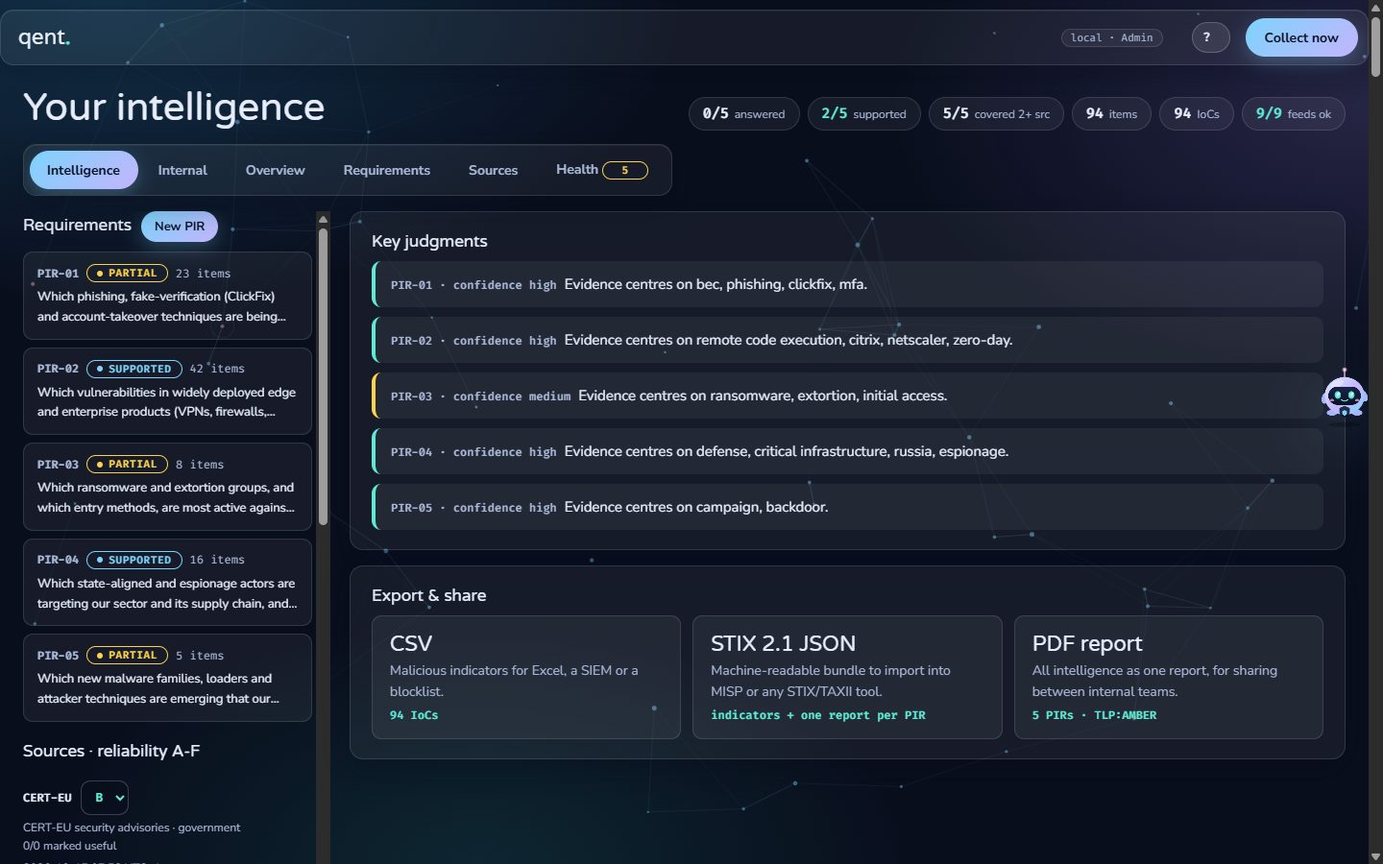
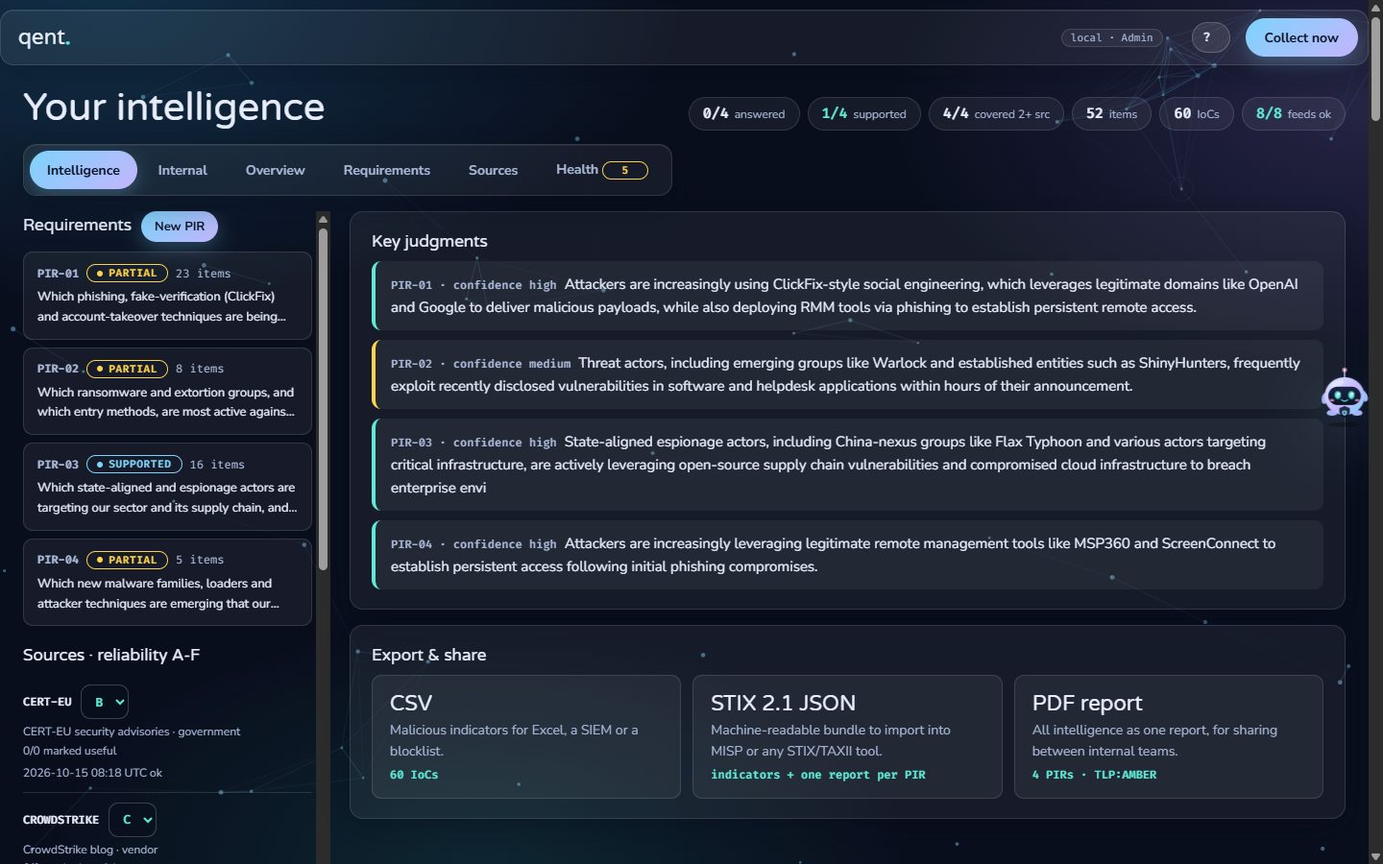
Drop vulnerability PIR and KEV feed (Stenwatch covers it); four general PIRs; AI summary screenshot

diff --git a/docs/diagrams.html b/docs/diagrams.html
@@ -41,7 +41,7 @@ html.fx{scroll-behavior:auto}
 .lb{font:600 10px ui-monospace,Consolas,monospace;letter-spacing:.06em;fill:#eaf0f8}
 .ar{fill:none;stroke:#8b9ab0;stroke-width:1.5}.ar.acc{stroke:#3ee6a8;stroke-width:1.8}.ar.opt{stroke-dasharray:5 4}
 .nt{font:italic 13px Georgia,serif;fill:#8b9ab0}
-</style><rect class="bg" width="1240" height="640"/><path class="ar " d="M180 188 L287 188" marker-end="url(#arch-a)"/><path class="ar " d="M437 188 L544 188" marker-end="url(#arch-a)"/><path class="ar acc" d="M694 188 L801 188" marker-end="url(#arch-a)"/><path class="ar acc" d="M951 188 L1058 188" marker-end="url(#arch-a)"/><path class="ar " d="M619 94 L619 150" marker-end="url(#arch-a)"/><path class="ar opt" d="M1133 150 L1133 94" marker-end="url(#arch-a)" marker-start="url(#arch-a)"/><path class="ar acc" d="M1133 226 L1133.0 312.0 Q1133 320 1125.0 320.0 L1064 320" marker-end="url(#arch-a)"/><path class="ar " d="M180 478 L287 478" marker-end="url(#arch-a)"/><path class="ar acc" d="M437 478 L544 478" marker-end="url(#arch-a)"/><path class="ar " d="M694 478 L801 478" marker-end="url(#arch-a)"/><path class="ar " d="M951 478 L1058 478" marker-end="url(#arch-a)"/><path class="ar " d="M619 440 L619 350" marker-end="url(#arch-a)"/><path class="ar opt" d="M876 516 L876 560" marker-end="url(#arch-a)" marker-start="url(#arch-a)"/><text class="tg" x="30" y="128" text-anchor="start">EXTERNAL INTELLIGENCE</text><text class="tg" x="30" y="418" text-anchor="start">YOUR OWN LOGS</text><rect class="mask" x="30" y="150" width="150" height="76" rx="6"/><rect class="box ext" x="30" y="150" width="150" height="76" rx="6"/><text class="nm" x="40" y="176">Public feeds</text><text class="sb" x="40" y="194">RSS · CISA KEV</text><text class="sb" x="40" y="208">Feodo · MISP events</text><rect class="mask" x="287" y="150" width="150" height="76" rx="6"/><rect class="box " x="287" y="150" width="150" height="76" rx="6"/><text class="nm" x="297" y="176">Collector</text><text class="sb" x="297" y="194">fetch · size caps</text><text class="sb" x="297" y="208">public hosts only</text><rect class="mask" x="544" y="150" width="150" height="76" rx="6"/><rect class="box " x="544" y="150" width="150" height="76" rx="6"/><text class="nm" x="554" y="176">Matcher</text><text class="sb" x="554" y="194">PIR keywords</text><text class="sb" x="554" y="208">newer than 30 days</text><rect class="mask" x="801" y="150" width="150" height="76" rx="6"/><rect class="box " x="801" y="150" width="150" height="76" rx="6"/><text class="nm" x="811" y="176">Extractor</text><text class="sb" x="811" y="194">malicious IoCs only</text><text class="sb" x="811" y="208">CVE · ATT&amp;CK · actors</text><rect class="mask" x="1058" y="150" width="150" height="76" rx="6"/><rect class="box focal" x="1058" y="150" width="150" height="76" rx="6"/><text class="nm" x="1068" y="176">Assessor</text><text class="sb" x="1068" y="194">score · confidence</text><text class="sb" x="1068" y="208">OPEN → ANSWERED</text><rect class="mask" x="544" y="30" width="150" height="64" rx="6"/><rect class="box " x="544" y="30" width="150" height="64" rx="6"/><text class="nm" x="554" y="56">PIRs</text><text class="sb" x="554" y="74">questions + keywords</text><rect class="mask" x="1058" y="30" width="150" height="64" rx="6"/><rect class="box fut" x="1058" y="30" width="150" height="64" rx="6"/><text class="nm" x="1068" y="56">AI summary</text><text class="sb" x="1068" y="74">public items only</text><rect class="mask" x="544" y="290" width="520" height="60" rx="6"/><rect class="box " x="544" y="290" width="520" height="60" rx="6"/><text class="nm" x="554" y="316">Dashboard</text><text class="sb" x="554" y="334">Intelligence · Internal · Overview · Requirements · Sources · Health</text><rect class="mask" x="30" y="440" width="150" height="76" rx="6"/><rect class="box ext" x="30" y="440" width="150" height="76" rx="6"/><text class="nm" x="40" y="466">Your logs</text><text class="sb" x="40" y="484">firewall · VPN · EDR</text><text class="sb" x="40" y="498">CSV upload</text><rect class="mask" x="287" y="440" width="150" height="76" rx="6"/><rect class="box focal" x="287" y="440" width="150" height="76" rx="6"/><text class="nm" x="297" y="466">Privacy filter</text><text class="sb" x="297" y="484">drop usernames</text><text class="sb" x="297" y="498">pseudonymise assets</text><rect class="mask" x="544" y="440" width="150" height="76" rx="6"/><rect class="box " x="544" y="440" width="150" height="76" rx="6"/><text class="nm" x="554" y="466">Detectors</text><text class="sb" x="554" y="484">scans · brute force</text><text class="sb" x="554" y="498">beaconing · exploits</text><rect class="mask" x="801" y="440" width="150" height="76" rx="6"/><rect class="box " x="801" y="440" width="150" height="76" rx="6"/><text class="nm" x="811" y="466">Sightings</text><text class="sb" x="811" y="484">vs feeds + MISP</text><text class="sb" x="811" y="498">(read only)</text><rect class="mask" x="1058" y="440" width="150" height="76" rx="6"/><rect class="box " x="1058" y="440" width="150" height="76" rx="6"/><text class="nm" x="1068" y="466">Share gate</text><text class="sb" x="1068" y="484">share_safe()</text><text class="sb" x="1068" y="498">STIX · CSV · TAXII</text><rect class="mask" x="801" y="560" width="150" height="64" rx="6"/><rect class="box ext" x="801" y="560" width="150" height="64" rx="6"/><text class="nm" x="811" y="586">Your MISP</text><text class="sb" x="811" y="604">lookup · push (opt.)</text><text class="nt" x="30" y="604" text-anchor="start">State: SQLite qent.db (PostgreSQL in cloud mode). Log rows are deleted after 30 days.</text><text class="nt" x="30" y="626" text-anchor="start">No AI model ever sees log data.</text><rect class="mask" x="193.5" y="160" width="80.0" height="16" rx="2"/><text class="lb" x="233.5" y="172" text-anchor="middle">RSS / JSON</text><rect class="mask" x="467.5" y="160" width="46.0" height="16" rx="2"/><text class="lb" x="490.5" y="172" text-anchor="middle">ITEMS</text><rect class="mask" x="707.5" y="160" width="80.0" height="16" rx="2"/><text class="lb" x="747.5" y="172" text-anchor="middle">KEPT ITEMS</text><rect class="mask" x="964.5" y="160" width="80.0" height="16" rx="2"/><text class="lb" x="1004.5" y="172" text-anchor="middle">INDICATORS</text><rect class="mask" x="629" y="114" width="66.4" height="16" rx="2"/><text class="lb" x="635" y="126">KEYWORDS</text><rect class="mask" x="1143" y="114" width="86.8" height="16" rx="2"/><text class="lb" x="1149" y="126">PUBLIC ONLY</text><rect class="mask" x="1143" y="254" width="52.8" height="16" rx="2"/><text class="lb" x="1149" y="266">STATUS</text><rect class="mask" x="213.9" y="450" width="39.2" height="16" rx="2"/><text class="lb" x="233.5" y="462" text-anchor="middle">ROWS</text><rect class="mask" x="453.9" y="450" width="73.2" height="16" rx="2"/><text class="lb" x="490.5" y="462" text-anchor="middle">ASSET IDs</text><rect class="mask" x="714.3" y="450" width="66.4" height="16" rx="2"/><text class="lb" x="747.5" y="462" text-anchor="middle">FINDINGS</text><rect class="mask" x="967.9" y="450" width="73.2" height="16" rx="2"/><text class="lb" x="1004.5" y="462" text-anchor="middle">SIGHTINGS</text><rect class="mask" x="629" y="387" width="66.4" height="16" rx="2"/><text class="lb" x="635" y="399">FINDINGS</text><rect class="mask" x="886" y="528" width="100.4" height="16" rx="2"/><text class="lb" x="892" y="540">LOOKUP / PUSH</text></svg></div><div class="leg"><span><i class="s"></i>component</span><span><i class="f"></i>focal step</span><span><i class="e"></i>external / optional</span><span><i class="u"></i>future</span><span><b class="a"></b>main data flow</span><span><b class="d"></b>optional / off by default</span></div></section><section id="pir-status"><h2>2. From feed item to PIR status</h2><p class="cap">Three gates decide whether an item is kept; two source and verdict rules decide how sure we are.</p><div class="scroll"><svg xmlns="http://www.w3.org/2000/svg" viewBox="0 0 1240 650" width="1240" height="650" role="img" aria-labelledby="flow-title flow-desc"><title id="flow-title">From feed item to PIR status</title><desc id="flow-desc">A feed item is kept only if its source is tasked to the PIR, it is newer than 30 days and a keyword hits; the PIR status then follows from analyst verdicts and independent source count.</desc><defs><marker id="flow-a" viewBox="0 0 10 10" refX="9" refY="5" markerWidth="7" markerHeight="7" orient="auto-start-reverse"><path d="M1 1L9 5L1 9" fill="none" stroke="#8b9ab0" stroke-width="1.6"/></marker></defs><style>
+</style><rect class="bg" width="1240" height="640"/><path class="ar " d="M180 188 L287 188" marker-end="url(#arch-a)"/><path class="ar " d="M437 188 L544 188" marker-end="url(#arch-a)"/><path class="ar acc" d="M694 188 L801 188" marker-end="url(#arch-a)"/><path class="ar acc" d="M951 188 L1058 188" marker-end="url(#arch-a)"/><path class="ar " d="M619 94 L619 150" marker-end="url(#arch-a)"/><path class="ar opt" d="M1133 150 L1133 94" marker-end="url(#arch-a)" marker-start="url(#arch-a)"/><path class="ar acc" d="M1133 226 L1133.0 312.0 Q1133 320 1125.0 320.0 L1064 320" marker-end="url(#arch-a)"/><path class="ar " d="M180 478 L287 478" marker-end="url(#arch-a)"/><path class="ar acc" d="M437 478 L544 478" marker-end="url(#arch-a)"/><path class="ar " d="M694 478 L801 478" marker-end="url(#arch-a)"/><path class="ar " d="M951 478 L1058 478" marker-end="url(#arch-a)"/><path class="ar " d="M619 440 L619 350" marker-end="url(#arch-a)"/><path class="ar opt" d="M876 516 L876 560" marker-end="url(#arch-a)" marker-start="url(#arch-a)"/><text class="tg" x="30" y="128" text-anchor="start">EXTERNAL INTELLIGENCE</text><text class="tg" x="30" y="418" text-anchor="start">YOUR OWN LOGS</text><rect class="mask" x="30" y="150" width="150" height="76" rx="6"/><rect class="box ext" x="30" y="150" width="150" height="76" rx="6"/><text class="nm" x="40" y="176">Public feeds</text><text class="sb" x="40" y="194">RSS feeds · Feodo</text><text class="sb" x="40" y="208">MISP events</text><rect class="mask" x="287" y="150" width="150" height="76" rx="6"/><rect class="box " x="287" y="150" width="150" height="76" rx="6"/><text class="nm" x="297" y="176">Collector</text><text class="sb" x="297" y="194">fetch · size caps</text><text class="sb" x="297" y="208">public hosts only</text><rect class="mask" x="544" y="150" width="150" height="76" rx="6"/><rect class="box " x="544" y="150" width="150" height="76" rx="6"/><text class="nm" x="554" y="176">Matcher</text><text class="sb" x="554" y="194">PIR keywords</text><text class="sb" x="554" y="208">newer than 30 days</text><rect class="mask" x="801" y="150" width="150" height="76" rx="6"/><rect class="box " x="801" y="150" width="150" height="76" rx="6"/><text class="nm" x="811" y="176">Extractor</text><text class="sb" x="811" y="194">malicious IoCs only</text><text class="sb" x="811" y="208">CVE · ATT&amp;CK · actors</text><rect class="mask" x="1058" y="150" width="150" height="76" rx="6"/><rect class="box focal" x="1058" y="150" width="150" height="76" rx="6"/><text class="nm" x="1068" y="176">Assessor</text><text class="sb" x="1068" y="194">score · confidence</text><text class="sb" x="1068" y="208">OPEN → ANSWERED</text><rect class="mask" x="544" y="30" width="150" height="64" rx="6"/><rect class="box " x="544" y="30" width="150" height="64" rx="6"/><text class="nm" x="554" y="56">PIRs</text><text class="sb" x="554" y="74">questions + keywords</text><rect class="mask" x="1058" y="30" width="150" height="64" rx="6"/><rect class="box fut" x="1058" y="30" width="150" height="64" rx="6"/><text class="nm" x="1068" y="56">AI summary</text><text class="sb" x="1068" y="74">public items only</text><rect class="mask" x="544" y="290" width="520" height="60" rx="6"/><rect class="box " x="544" y="290" width="520" height="60" rx="6"/><text class="nm" x="554" y="316">Dashboard</text><text class="sb" x="554" y="334">Intelligence · Internal · Overview · Requirements · Sources · Health</text><rect class="mask" x="30" y="440" width="150" height="76" rx="6"/><rect class="box ext" x="30" y="440" width="150" height="76" rx="6"/><text class="nm" x="40" y="466">Your logs</text><text class="sb" x="40" y="484">firewall · VPN · EDR</text><text class="sb" x="40" y="498">CSV upload</text><rect class="mask" x="287" y="440" width="150" height="76" rx="6"/><rect class="box focal" x="287" y="440" width="150" height="76" rx="6"/><text class="nm" x="297" y="466">Privacy filter</text><text class="sb" x="297" y="484">drop usernames</text><text class="sb" x="297" y="498">pseudonymise assets</text><rect class="mask" x="544" y="440" width="150" height="76" rx="6"/><rect class="box " x="544" y="440" width="150" height="76" rx="6"/><text class="nm" x="554" y="466">Detectors</text><text class="sb" x="554" y="484">scans · brute force</text><text class="sb" x="554" y="498">beaconing · exploits</text><rect class="mask" x="801" y="440" width="150" height="76" rx="6"/><rect class="box " x="801" y="440" width="150" height="76" rx="6"/><text class="nm" x="811" y="466">Sightings</text><text class="sb" x="811" y="484">vs feeds + MISP</text><text class="sb" x="811" y="498">(read only)</text><rect class="mask" x="1058" y="440" width="150" height="76" rx="6"/><rect class="box " x="1058" y="440" width="150" height="76" rx="6"/><text class="nm" x="1068" y="466">Share gate</text><text class="sb" x="1068" y="484">share_safe()</text><text class="sb" x="1068" y="498">STIX · CSV · TAXII</text><rect class="mask" x="801" y="560" width="150" height="64" rx="6"/><rect class="box ext" x="801" y="560" width="150" height="64" rx="6"/><text class="nm" x="811" y="586">Your MISP</text><text class="sb" x="811" y="604">lookup · push (opt.)</text><text class="nt" x="30" y="604" text-anchor="start">State: SQLite qent.db (PostgreSQL in cloud mode). Log rows are deleted after 30 days.</text><text class="nt" x="30" y="626" text-anchor="start">No AI model ever sees log data.</text><rect class="mask" x="193.5" y="160" width="80.0" height="16" rx="2"/><text class="lb" x="233.5" y="172" text-anchor="middle">RSS / JSON</text><rect class="mask" x="467.5" y="160" width="46.0" height="16" rx="2"/><text class="lb" x="490.5" y="172" text-anchor="middle">ITEMS</text><rect class="mask" x="707.5" y="160" width="80.0" height="16" rx="2"/><text class="lb" x="747.5" y="172" text-anchor="middle">KEPT ITEMS</text><rect class="mask" x="964.5" y="160" width="80.0" height="16" rx="2"/><text class="lb" x="1004.5" y="172" text-anchor="middle">INDICATORS</text><rect class="mask" x="629" y="114" width="66.4" height="16" rx="2"/><text class="lb" x="635" y="126">KEYWORDS</text><rect class="mask" x="1143" y="114" width="86.8" height="16" rx="2"/><text class="lb" x="1149" y="126">PUBLIC ONLY</text><rect class="mask" x="1143" y="254" width="52.8" height="16" rx="2"/><text class="lb" x="1149" y="266">STATUS</text><rect class="mask" x="213.9" y="450" width="39.2" height="16" rx="2"/><text class="lb" x="233.5" y="462" text-anchor="middle">ROWS</text><rect class="mask" x="453.9" y="450" width="73.2" height="16" rx="2"/><text class="lb" x="490.5" y="462" text-anchor="middle">ASSET IDs</text><rect class="mask" x="714.3" y="450" width="66.4" height="16" rx="2"/><text class="lb" x="747.5" y="462" text-anchor="middle">FINDINGS</text><rect class="mask" x="967.9" y="450" width="73.2" height="16" rx="2"/><text class="lb" x="1004.5" y="462" text-anchor="middle">SIGHTINGS</text><rect class="mask" x="629" y="387" width="66.4" height="16" rx="2"/><text class="lb" x="635" y="399">FINDINGS</text><rect class="mask" x="886" y="528" width="100.4" height="16" rx="2"/><text class="lb" x="892" y="540">LOOKUP / PUSH</text></svg></div><div class="leg"><span><i class="s"></i>component</span><span><i class="f"></i>focal step</span><span><i class="e"></i>external / optional</span><span><i class="u"></i>future</span><span><b class="a"></b>main data flow</span><span><b class="d"></b>optional / off by default</span></div></section><section id="pir-status"><h2>2. From feed item to PIR status</h2><p class="cap">Three gates decide whether an item is kept; two source and verdict rules decide how sure we are.</p><div class="scroll"><svg xmlns="http://www.w3.org/2000/svg" viewBox="0 0 1240 650" width="1240" height="650" role="img" aria-labelledby="flow-title flow-desc"><title id="flow-title">From feed item to PIR status</title><desc id="flow-desc">A feed item is kept only if its source is tasked to the PIR, it is newer than 30 days and a keyword hits; the PIR status then follows from analyst verdicts and independent source count.</desc><defs><marker id="flow-a" viewBox="0 0 10 10" refX="9" refY="5" markerWidth="7" markerHeight="7" orient="auto-start-reverse"><path d="M1 1L9 5L1 9" fill="none" stroke="#8b9ab0" stroke-width="1.6"/></marker></defs><style>
 .bg{fill:#0a101b}.mask{fill:#0a101b}
 .box{fill:#101826;stroke:#2a3a52;stroke-width:1.2}
 .box.focal{fill:#0f2a26;stroke:#3ee6a8;stroke-width:1.6}

diff --git a/docs/index.html b/docs/index.html
@@ -71,7 +71,7 @@ html.fx{scroll-behavior:auto}
 <section id="why"><div class="wrap">
 <div class="tag">The problem</div><h2>Noise, few proven answers, blind spots</h2>
 <div class="grid">
-<div class="card"><div class="num">1,800+</div><h3>Too much noise</h3><p>Items from the feeds in one run. Only about 90 touch one of five PIRs.</p></div>
+<div class="card"><div class="num">160</div><h3>Too much noise</h3><p>Items from 8 feeds in one run. Only 52 touch one of four PIRs.</p></div>
 <div class="card"><div class="num">0/5</div><h3>Few proven answers</h3><p>Nobody can say a question is answered until an analyst confirms it.</p></div>
 <div class="card"><div class="num">?</div><h3>Blind spots</h3><p>A feed fails or goes quiet and nobody notices. Qent's Health tab does.</p></div>
 </div>
@@ -91,6 +91,8 @@ html.fx{scroll-behavior:auto}
 <img src="img/intelligence.jpg" alt="Intelligence tab: PIR status, sources and indicators">
 <img src="img/landing.jpg" alt="Landing page with the Qi mascot">
 </div>
+<p style="color:var(--mute);margin-top:22px;max-width:720px">With a Gemini or Azure OpenAI key, each PIR also gets a short written assessment from public feed items only, marked AI-generated and unverified, with confidence, gaps and a next action.</p>
+<img src="img/ai-summary.jpg" alt="A PIR with its AI-generated assessment, confidence, gaps and action" style="margin-top:14px">
 </div></section>
 
 <section id="diagrams"><div class="wrap"><div class="tag">Diagrams</div><h2>How it works, end to end</h2><h3 style="margin:26px 0 8px;font-size:18px">How Qent works</h3><div style="overflow-x:auto"><img src="diagrams/architecture.svg" alt="How Qent works" style="min-width:900px"></div><h3 style="margin:26px 0 8px;font-size:18px">From feed item to PIR status</h3><div style="overflow-x:auto"><img src="diagrams/pir-status.svg" alt="From feed item to PIR status" style="min-width:900px"></div><h3 style="margin:26px 0 8px;font-size:18px">Internal log privacy and sharing</h3><div style="overflow-x:auto"><img src="diagrams/log-privacy.svg" alt="Internal log privacy and sharing" style="min-width:900px"></div><h3 style="margin:26px 0 8px;font-size:18px">Future cloud production (Azure, EU)</h3><div style="overflow-x:auto"><img src="diagrams/cloud-production.svg" alt="Future cloud production (Azure, EU)" style="min-width:900px"></div><p style="margin-top:18px"><a class="btn s" href="diagrams.html">Open all diagrams</a></p></div></section>
@@ -100,10 +102,9 @@ html.fx{scroll-behavior:auto}
 <div class="scroll"><table>
 <tr><th>ID</th><th>Question</th><th>Level</th></tr>
 <tr><td>PIR-01</td><td>Which phishing, ClickFix and account-takeover techniques are being used against cloud and email accounts right now, and which controls stop them?</td><td>tactical</td></tr>
-<tr><td>PIR-02</td><td>Which vulnerabilities in widely deployed edge and enterprise products (VPNs, firewalls, gateways, load balancers, mail servers, operating systems) are exploited now, and which need patching within a day?</td><td>tactical</td></tr>
-<tr><td>PIR-03</td><td>Which ransomware and extortion groups, and which entry methods, are most active against organisations like ours, and what do they reach first?</td><td>strategic</td></tr>
-<tr><td>PIR-04</td><td>Which state-aligned and espionage actors target our sector and its supply chain, and through which suppliers or partners?</td><td>strategic</td></tr>
-<tr><td>PIR-05</td><td>Which new malware families, loaders and attacker techniques are emerging that our detections and hardening should cover?</td><td>tactical</td></tr>
+<tr><td>PIR-02</td><td>Which ransomware and extortion groups, and which entry methods, are most active against organisations like ours, and what do they reach first?</td><td>strategic</td></tr>
+<tr><td>PIR-03</td><td>Which state-aligned and espionage actors target our sector and its supply chain, and through which suppliers or partners?</td><td>strategic</td></tr>
+<tr><td>PIR-04</td><td>Which new malware families, loaders and attacker techniques are emerging that our detections and hardening should cover?</td><td>tactical</td></tr>
 </table></div>
 </div></section>
 

diff --git a/qent.py b/qent.py
@@ -2773,7 +2773,6 @@ def render(errors, res, failed, today, sources=(), runs=(), marks={}, role="Admi
 
 # source id (as in Sources sheet) -> (kind, url)
 FEEDS = {
-    "CISA-KEV": ("kev", "https://www.cisa.gov/sites/default/files/feeds/known_exploited_vulnerabilities.json"),
     "DARKREADING": ("rss", "https://www.darkreading.com/rss.xml"),
     "CERT-EU": ("rss", "https://cert.europa.eu/publications/security-advisories-rss"),
     "THN": ("rss", "https://feeds.feedburner.com/TheHackersNews"),
@@ -3265,11 +3264,11 @@ def selftest():
     SQLITE = Path(tempfile.mkdtemp()) / "old.db"  # a database from before sources had feed columns
     con0 = sqlite3.connect(SQLITE)
     con0.execute("CREATE TABLE sources(id TEXT PRIMARY KEY, name TEXT, type TEXT, reliability TEXT, pirs TEXT)")
-    con0.execute("INSERT INTO sources VALUES('CISA-KEV','CISA','government','A','PIR-02')")
+    con0.execute("INSERT INTO sources VALUES('UNIT42','Unit 42','vendor','C','PIR-02')")
     con0.commit(); con0.close()
     init_db()
-    old = [x for x in rows("sources") if x["id"] == "CISA-KEV"][0]
-    assert old["kind"] == "kev" and old["url"].startswith("https://www.cisa.gov") and old["enabled"] == 1, old
+    old = [x for x in rows("sources") if x["id"] == "UNIT42"][0]
+    assert old["kind"] == "rss" and old["url"].startswith("https://unit42.") and old["enabled"] == 1, old
     SQLITE = main_db
     good = {"id": "FINMISP", "name": "FinMISP", "type": "community", "reliability": "B", "kind": "misp", "url": "https://misp.finmisp.test/", "secret_env": "FINMISP_KEY", "days": 14, "enabled": True, "pirs": []}
     err, sid = save_source("a@x", dict(good), True)

diff --git a/README.md b/README.md
@@ -23,7 +23,13 @@ Priority intelligence requirements (PIRs) in, evidence-backed answers out: exter
 |---|---|
 | ![Intelligence tab with PIR status](docs/img/intelligence.jpg) | ![Findings from uploaded logs](docs/img/internal.jpg) |
 
+With a Gemini or Azure OpenAI key each PIR also gets a written assessment (public feed items only, marked AI-generated and unverified):
+
+![A PIR with its AI assessment](docs/img/ai-summary.jpg)
+
 <sub>Screenshots use the bundled demo PIRs and the synthetic logs in `samples/`. No real data.</sub>
+
+> Vulnerability prioritisation is out of scope here: that is what [Stenwatch](https://github.com/idiljot-singh/Stenwatch) does. Qent covers threat actors, campaigns, malware, IoCs and your own logs.
 
 ## Diagrams
 
@@ -54,7 +60,7 @@ python qent.py --test     # self-test, no network, prints "selftest ok"
 Python 3.12+, **no packages needed** (only `pip install openpyxl` for the first-start PIR import). The first start loads the **demo PIRs** from `pir_workbook.xlsx`.
 
 Demo path for a presentation:
-1. Click **Collect now**. Nine public feeds (CISA KEV, CERT-EU, Microsoft, CrowdStrike, Unit 42, The DFIR Report, The Hacker News, Dark Reading, abuse.ch) are read; only items matching a PIR are kept, with malicious IoCs (defanged, from an IoC list or a threat feed) and context (CVEs, techniques, actors) extracted.
+1. Click **Collect now**. Eight public feeds (CERT-EU, Microsoft, CrowdStrike, Unit 42, The DFIR Report, The Hacker News, Dark Reading, abuse.ch) are read; only items matching a PIR are kept, with malicious IoCs (defanged, from an IoC list or a threat feed) and context (CVEs, techniques, actors) extracted.
 2. **Requirements** tab: each PIR moves from OPEN to PARTIAL to SUPPORTED (2+ independent sources and a strong item). An analyst confirms ANSWERED.
 3. **Internal** tab: drop `samples/ssl_vpn_logs.csv`, then `firewall.csv` and `edr.csv`. About 20 findings appear with no feed and no AI: scans, brute force, success after failures, beaconing, encoded PowerShell, certutil abuse, Fortinet / Citrix / Ivanti / Cisco exploit probes, scanner clients, impossible travel.
 4. **Share**: STIX 2.1, CSV, PDF report, TAXII 2.1, MISP push, all scrubbed of internal identifiers.
@@ -64,10 +70,9 @@ Demo path for a presentation:
 | ID | Question | Level |
 |---|---|---|
 | PIR-01 | Which phishing, ClickFix and account-takeover techniques are being used against cloud and email accounts right now, and which controls stop them? | tactical |
-| PIR-02 | Which vulnerabilities in widely deployed edge and enterprise products (VPNs, firewalls, gateways, load balancers, mail servers, operating systems) are exploited now, and which need patching within a day? | tactical |
-| PIR-03 | Which ransomware and extortion groups, and which entry methods, are most active against organisations like ours, and what do they reach first? | strategic |
-| PIR-04 | Which state-aligned and espionage actors target our sector and its supply chain, and through which suppliers or partners? | strategic |
-| PIR-05 | Which new malware families, loaders and attacker techniques are emerging that our detections and hardening should cover? | tactical |
+| PIR-02 | Which ransomware and extortion groups, and which entry methods, are most active against organisations like ours, and what do they reach first? | strategic |
+| PIR-03 | Which state-aligned and espionage actors target our sector and its supply chain, and through which suppliers or partners? | strategic |
+| PIR-04 | Which new malware families, loaders and attacker techniques are emerging that our detections and hardening should cover? | tactical |
 
 Each PIR carries 20+ keywords so collection is broad. Replace them with your own in the **Requirements** tab (New PIR, with keyword suggestions), or edit `pir_workbook.xlsx` before the first start.
 
@@ -77,7 +82,7 @@ Each PIR carries 20+ keywords so collection is broad. Replace them with your own
 |---|---|
 | **PIR-first** | Every item is traced to a PIR and a graded source (reliability A to F). Nothing is shown "because it is new" |
 | **Honest status** | OPEN / PARTIAL / SUPPORTED / ANSWERED, with a Health tab that flags failing feeds, matching and AI |
-| **Sources** | RSS, CISA KEV, Feodo, MISP. Add your own in the Sources tab |
+| **Sources** | RSS, Feodo, MISP (a CISA KEV reader is built in, off by default: vulnerabilities are left to Stenwatch). Add your own in the Sources tab |
 | **Internal logs (beta)** | CSV upload, privacy-first: usernames dropped, internal assets pseudonymised, commands redacted, 30-day retention |
 | **Deterministic detections** | Rule-based, mapped to MITRE ATT&CK, no model involved |
 | **MISP** | Look up your log indicators in your MISP (read), optionally push events and sightings back (off by default) |

diff --git a/WALKTHROUGH.md b/WALKTHROUGH.md
@@ -13,7 +13,7 @@ A security team gets hundreds of advisories, vendor blogs and feeds a week. With
 | Term | Meaning |
 |---|---|
 | **PIR** | Priority intelligence requirement: a question the business needs answered, with the decision it supports |
-| **Source reliability** | A to F grade of a feed (CISA KEV is A, a vendor blog is C) |
+| **Source reliability** | A to F grade of a feed (a government advisory is A, a vendor blog is C) |
 | **Item** | One feed entry that matched a PIR's keywords |
 | **IoC** | A malicious IP, hash, URL or domain: defanged by the article, listed under its IoC heading, or from a threat feed / MISP |
 | **Context** | CVEs, ATT&CK techniques and actor / malware names found in an item. Shown beside IoCs but never counted as IoCs |
@@ -38,12 +38,11 @@ Your logs -> Findings -> Sightings (vs feeds + MISP) -> Share (STIX / CSV / TAXI
 | ID | Question (short) |
 |---|---|
 | PIR-01 | Phishing, ClickFix and account takeover against cloud and email accounts |
-| PIR-02 | Exploited vulnerabilities in widely deployed edge and enterprise products |
-| PIR-03 | Ransomware and extortion groups and their entry methods |
-| PIR-04 | State-aligned actors targeting our sector and supply chain |
-| PIR-05 | New malware, loaders and techniques our detections should cover |
+| PIR-02 | Ransomware and extortion groups and their entry methods |
+| PIR-03 | State-aligned actors targeting our sector and supply chain |
+| PIR-04 | New malware, loaders and techniques our detections should cover |
 
-**Sources** (Sources tab) are RSS feeds, CISA KEV, abuse.ch Feodo and MISP. Each is *tasked* to the PIRs it can help with and carries a reliability grade. **Collect now** (or `python qent.py collect` on a schedule) fetches them in parallel with size caps and a public-address check, so a feed cannot point Qent at your internal network.
+**Sources** (Sources tab) are RSS feeds, abuse.ch Feodo and MISP (a CISA KEV reader exists but is off: vulnerability prioritisation is Stenwatch's job). Each is *tasked* to the PIRs it can help with and carries a reliability grade. **Collect now** (or `python qent.py collect` on a schedule) fetches them in parallel with size caps and a public-address check, so a feed cannot point Qent at your internal network.
 
 ## 5. Matching, assessment and status
 
